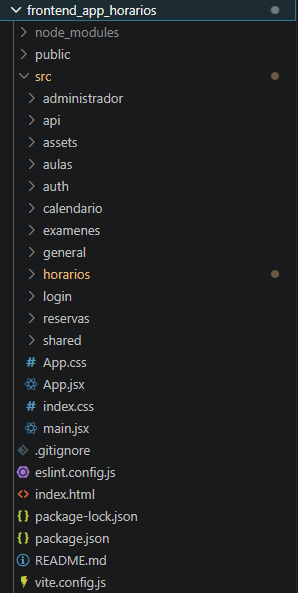
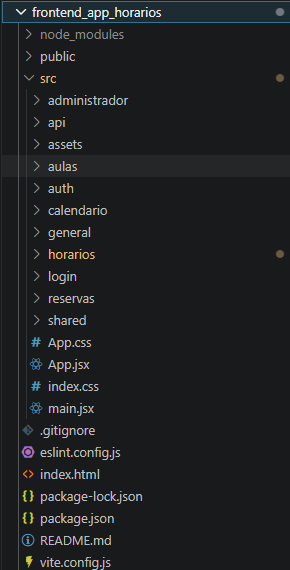
Documentar la estructura de directorios del front

diff --git a/doc/tex/D_Manual_programador.tex b/doc/tex/D_Manual_programador.tex
@@ -68,10 +68,80 @@ A continuación, se adjunta la Tabla~\ref{tab:estructura-backend} a modo resumen
 	\label{tab:estructura-backend}
 \end{table}
 
+\subsection{Frontend}
 
+El \textit{frontend} de la aplicación se encuentra desarrollado con React + Vite y contiene la parte visual del sistema. Esta parte del proyecto se encarga de mostrar las pantallas de la aplicación, gestionar la interacción con el usuario y comunicarse con el \textit{backend} mediante peticiones HTTP.
+
+En la Figura~\ref{fig:estructura-directorios-frontend} se muestra la estructura principal de directorios correspondiente al \textit{frontend} del proyecto.
+
+\imagen{img/EstructuraDirectoriosFront.png}{Estructura de directorios del frontend}{fig:estructura-directorios-frontend}
+
+Como se observa en la Figura~\ref{fig:estructura-directorios-frontend}, el directorio del \textit{frontend} está formado por una carpeta principal \textit{src}, donde se encuentra el código fuente de la interfaz, y por varios ficheros de configuración necesarios para ejecutar y construir la aplicación.
+
+El directorio \textit{public} contiene recursos estáticos públicos que pueden ser utilizados directamente por la aplicación. Estos archivos se sirven sin necesidad de ser procesados por el sistema de construcción.
+
+Dentro de \textit{src} se organiza la mayor parte del código del \textit{frontend}.
+
+El directorio \textit{administrador} agrupa las pantallas y componentes relacionados con el panel de administración. En este módulo se encuentran las funcionalidades destinadas a la gestión de entidades, usuarios, roles y el mantenimiento global del sistema.
+
+El directorio \textit{api} contiene las funciones encargadas de centralizar la comunicación con el \textit{backend}. Esta organización permite separar las llamadas HTTP de los componentes visuales, facilitando el mantenimiento del código y evitando duplicidades.
+
+El directorio \textit{assets} almacena recursos estáticos utilizados por la interfaz, como imágenes, logotipos u otros elementos gráficos.
+
+El directorio \textit{aulas} agrupa los componentes y páginas relacionados con la consulta de ocupación de aulas.
+
+El directorio \textit{auth} contiene la lógica para proteger rutas de acceso sin autenticación, y para validar permisos.
+
+El directorio \textit{calendario} agrupa las pantallas y componentes relacionados con la consulta y modificación del calendario académico.
+
+El directorio \textit{horarios} contiene las pantallas y componentes necesarios para cargar nuevos horarios, consultar horarios existentes.
+
+El directorio \textit{login} contiene la pantalla de inicio de sesión y los elementos visuales relacionados con el acceso a la aplicación.
+
+El directorio \textit{reservas} agrupa las pantallas y componentes relacionados con la gestión de reservas puntuales y periódicas, incluyendo listados, formularios de creación y edición, y acciones asociadas a las solicitudes.
+
+Finalmente, el directorio \textit{shared} contiene elementos compartidos por diferentes módulos del \textit{frontend}, permitiendo reutilizar código común y mantener una estructura más organizada.
+
+Además de estos directorios, aparecen varios ficheros relevantes en la raíz del proyecto. El archivo \textit{App.jsx} define la estructura principal de la aplicación React y la organización general de sus rutas o componentes principales. El archivo \textit{main.jsx} actúa como punto de entrada de la aplicación. Los ficheros \textit{App.css} e \textit{index.css} contienen estilos globales utilizados por la interfaz.
+
+El fichero \textit{package.json} recoge la configuración del proyecto, los scripts de ejecución y las dependencias necesarias. El archivo \textit{package-lock.json} almacena la versión exacta de las dependencias instaladas. El archivo \textit{vite.config.js} contiene la configuración de Vite, herramienta utilizada para ejecutar y construir el \textit{frontend}. Por último, el directorio \textit{node\_modules} se genera automáticamente al instalar las dependencias de Node.js y no forma parte del código fuente desarrollado.
+
+Se ha realizado una Tabla~\ref{tab:estructura-frontend} a modo resumen visual de lo que realiza cada directorio.
+
+\begin{table}[H]
+	\centering
+	\begin{tabular}{l p{9cm}}
+		\toprule
+		\textbf{Directorio/Fichero} & \textbf{Descripción} \\
+		\midrule
+		\textit{public} & Recursos estáticos públicos de la aplicación. \\
+		\textit{src} & Directorio principal del código fuente del frontend. \\
+		\textit{administrador} & Pantallas y componentes relacionados con el panel de administración. \\
+		\textit{api} & Funciones encargadas de realizar peticiones al backend. \\
+		\textit{assets} & Imágenes, logotipos y otros recursos gráficos. \\
+		\textit{aulas} & Componentes relacionados con aulas y ocupación de espacios. \\
+		\textit{auth} & Lógica de autenticación y gestión de sesión. \\
+		\textit{calendario} & Componentes relacionados con el calendario académico. \\
+		\textit{general} & Componentes comunes de la interfaz. \\
+		\textit{horarios} & Pantallas de carga, consulta y gestión de horarios. \\
+		\textit{login} & Pantalla y componentes de inicio de sesión. \\
+		\textit{reservas} & Gestión de reservas puntuales. \\
+		\textit{shared} & Componentes o utilidades compartidas por varios módulos. \\
+		\textit{App.jsx} & Componente principal de la aplicación React. \\
+		\textit{main.jsx} & Punto de entrada del frontend. \\
+		\textit{vite.config.js} & Configuración de Vite. \\
+		\textit{package.json} & Dependencias y scripts del proyecto frontend. \\
+		\textit{node\_modules} & Dependencias instaladas automáticamente mediante Node.js. \\
+		\bottomrule
+	\end{tabular}
+	\caption{Descripción de la estructura principal del frontend}
+	\label{tab:estructura-frontend}
+\end{table}
 
 
 \section{Manual del programador}
+
+
 
 \section{Compilación, instalación y ejecución del proyecto}
 